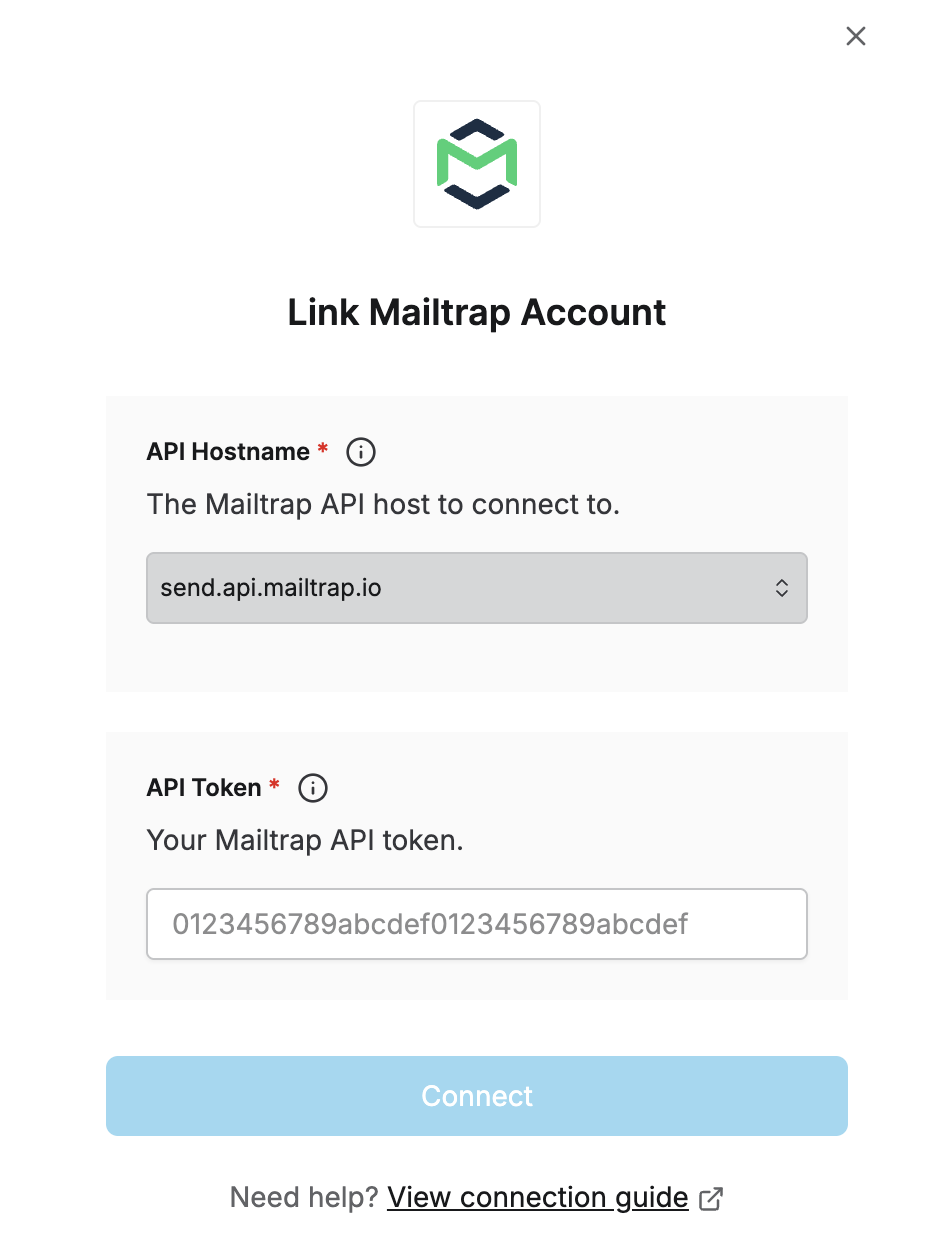
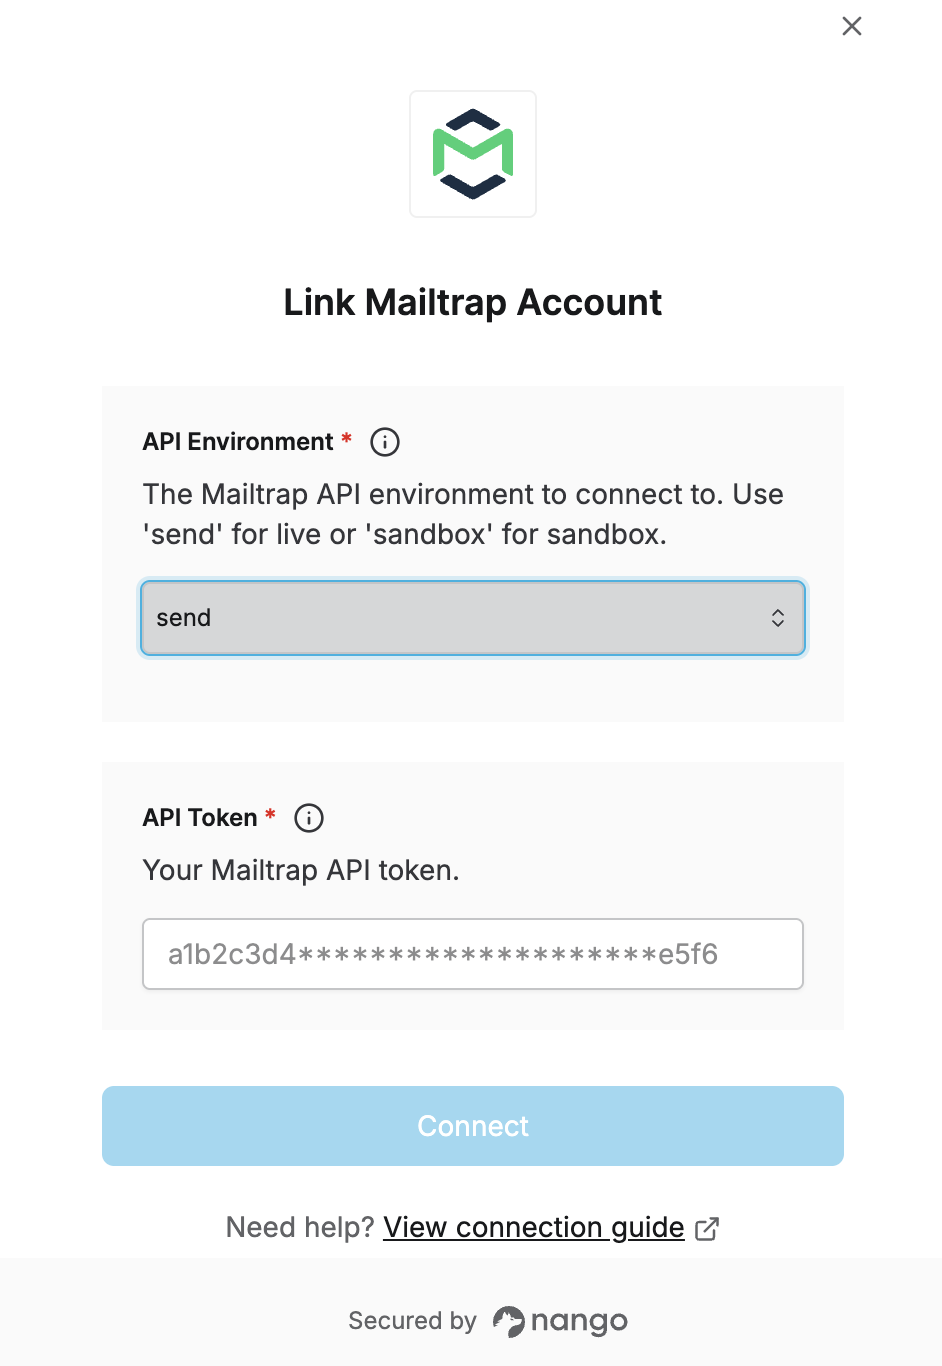
Select the Mailtrap environment via a subdomain enum

diff --git a/packages/shared/lib/services/proxy/utils.unit.test.ts b/packages/shared/lib/services/proxy/utils.unit.test.ts
@@ -1234,14 +1234,14 @@ describe('buildProxyURL', () => {
     });
 
     it.each([
-        ['send.api.mailtrap.io', 'https://send.api.mailtrap.io/api/test'],
-        ['sandbox.api.mailtrap.io', 'https://sandbox.api.mailtrap.io/api/test']
-    ])('should build the base URL from the selected hostname %s (e.g. mailtrap)', (hostname, expected) => {
+        ['send', 'https://send.api.mailtrap.io/api/test'],
+        ['sandbox', 'https://sandbox.api.mailtrap.io/api/test']
+    ])('should build the base URL from the selected subdomain %s (e.g. mailtrap)', (subdomain, expected) => {
         const config = getDefaultProxy({
             provider: {
                 auth_mode: 'API_KEY',
                 proxy: {
-                    base_url: 'https://${connectionConfig.hostname} || https://send.api.mailtrap.io'
+                    base_url: 'https://${connectionConfig.subdomain}.api.mailtrap.io'
                 }
             }
         });
@@ -1250,34 +1250,11 @@ describe('buildProxyURL', () => {
             config,
             connection: getTestConnection({
                 credentials: { type: 'API_KEY', apiKey: 'test-key' },
-                connection_config: { hostname }
+                connection_config: { subdomain }
             })
         });
 
         expect(url).toBe(expected);
-    });
-
-    // `default_value` is only applied by the connect UI, so connections created through the SDK/public API can
-    // arrive with no hostname at all. The fallback keeps those on the production host instead of building a URL
-    // from an uninterpolated `${connectionConfig.hostname}`.
-    it('should fall back to the production base URL when hostname is absent (e.g. mailtrap created via SDK)', () => {
-        const config = getDefaultProxy({
-            provider: {
-                auth_mode: 'API_KEY',
-                proxy: {
-                    base_url: 'https://${connectionConfig.hostname} || https://send.api.mailtrap.io'
-                }
-            }
-        });
-
-        const url = buildProxyURL({
-            config,
-            connection: getTestConnection({
-                credentials: { type: 'API_KEY', apiKey: 'test-key' }
-            })
-        });
-
-        expect(url).toBe('https://send.api.mailtrap.io/api/test');
     });
 
     it('should fall back to second base URL when first connectionConfig param is absent (e.g. amazon-selling-partner without subdomain)', () => {
